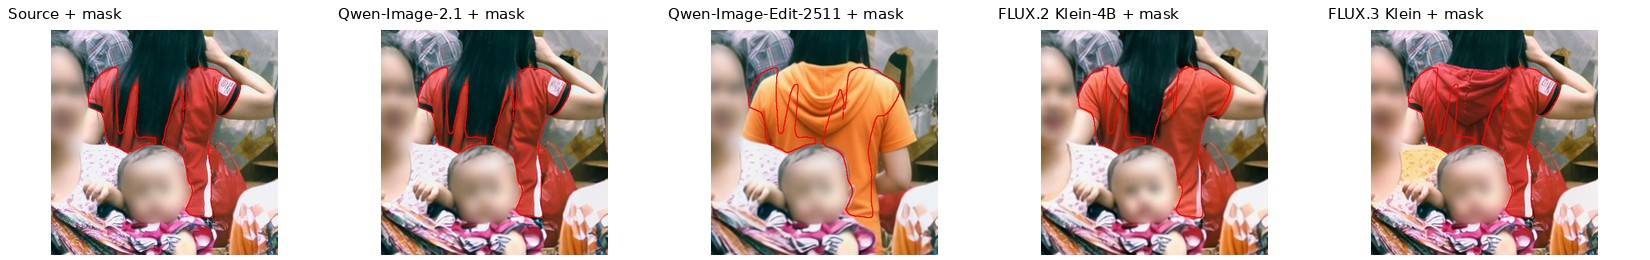
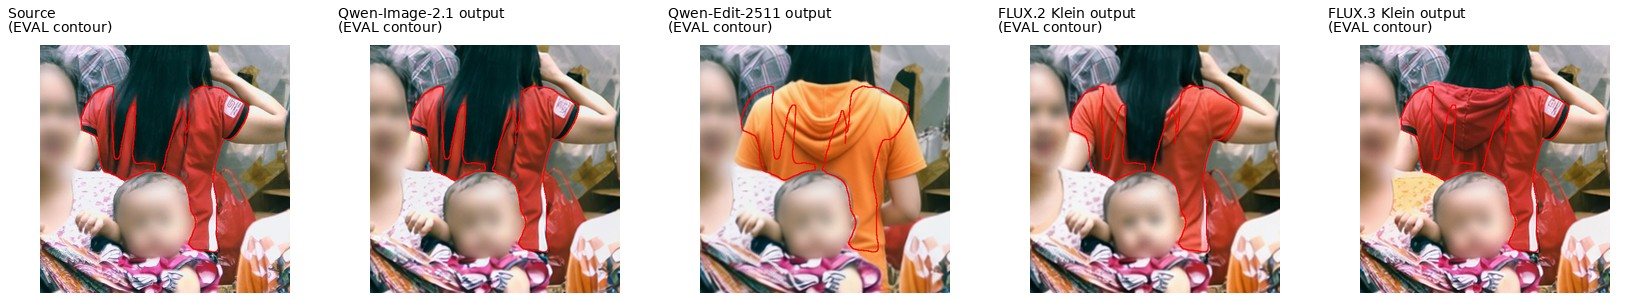
docs: clarify locator inputs and evaluation overlays

diff --git a/evaluation/analyze_results.py b/evaluation/analyze_results.py
@@ -23,6 +23,18 @@ PATHS = {
 }
 COLORS = {'qwen_image_21':'#4472c4','qwen_image_edit_2511':'#ed7d31','flux2_klein_4b':'#70ad47','flux3_klein':'#7030a0'}
 DIM_COLORS = {'E':'#4472c4','P':'#ed7d31','Q':'#70ad47','unit_joint':'#7030a0'}
+INPUT_METHODS = {
+    'qwen_image_21': 'grayscale mask label map (mask_full)',
+    'qwen_image_edit_2511': 'grayscale mask label map (mask_full)',
+    'flux2_klein_4b': 'grayscale mask label map (mask_full)',
+    'flux3_klein': 'color locator image (colored locator marks)',
+}
+SHORT_LABELS = {
+    'qwen_image_21': 'Qwen-Image-2.1',
+    'qwen_image_edit_2511': 'Qwen-Edit-2511',
+    'flux2_klein_4b': 'FLUX.2 Klein',
+    'flux3_klein': 'FLUX.3 Klein',
+}
 
 
 def read_jsonl(p):
@@ -298,14 +310,14 @@ for tag,cid in selected.items():
     shutil.copy2(j['public_job']['images'][1],ifolder/'locator.png')
     # overview
     mask_job=case_jobs['qwen_image_21'][cid]
-    imgs=[('Source',j['source_image']),('Mask locator',mask_job['public_job']['images'][1]),('Color locator',j['public_job']['images'][1])]
+    imgs=[('Source (clean)',j['source_image']),('Mask locator\n(Qwen/FLUX.2)',mask_job['public_job']['images'][1]),('Color locator\n(FLUX.3)',j['public_job']['images'][1])]
     for m,label in MODELS.items():
         mj=case_jobs[m][cid]
-        imgs.append((label,outputs[m][mj['job_id']]['output_image']))
+        imgs.append((f'{SHORT_LABELS[m]} output\n[{"mask" if m != "flux3_klein" else "color"}]',outputs[m][mj['job_id']]['output_image']))
     cells=[]
     for label,p in imgs:
-        im=thumb(Image.open(p)); cell=Image.new('RGB',(380,300),'white'); cell.paste(im,((380-im.width)//2,28)); ImageDraw.Draw(cell).text((10,6),label,fill='black',font=font(18)); cells.append(cell)
-    ov=Image.new('RGB',(380*len(cells),300),'white')
+        im=thumb(Image.open(p),size=(360,245)); cell=Image.new('RGB',(380,320),'white'); cell.paste(im,((380-im.width)//2,55)); ImageDraw.Draw(cell).multiline_text((10,6),label,fill='black',font=font(17),spacing=2); cells.append(cell)
+    ov=Image.new('RGB',(380*len(cells),320),'white')
     for i,c in enumerate(cells): ov.paste(c,(i*380,0))
     ov.save(ifolder/'overview.jpg',quality=90)
     # details
@@ -313,16 +325,16 @@ for tag,cid in selected.items():
         uid=d['id']; rowhtml=[]
         source_plain=Image.open(d['source_crop']).convert('RGB')
         source=outlined(source_plain,d['gold_source_mask'],d['crop_box_xyxy'])
-        cols=[('Source + mask',source)]
+        cols=[('Source\n(EVAL contour)',source)]
         for m,label in MODELS.items():
             # Use the crop built from the model's own input/output binding.
             mj=case_jobs[m][cid]
             md=next(x for x in mj['private_evaluation_details'] if x['id']==uid)
             outplain=Image.open(md['output_crop']).convert('RGB')
-            cols.append((label+' + mask',outlined(outplain,md['gold_source_mask'],md['crop_box_xyxy'])))
-        cw,ch=330,260; panel=Image.new('RGB',(cw*len(cols),ch),'white'); draw=ImageDraw.Draw(panel)
+            cols.append((f'{SHORT_LABELS[m]} output\n(EVAL contour)',outlined(outplain,md['gold_source_mask'],md['crop_box_xyxy'])))
+        cw,ch=330,300; panel=Image.new('RGB',(cw*len(cols),ch),'white'); draw=ImageDraw.Draw(panel)
         for i,(label,im) in enumerate(cols):
-            im.thumbnail((cw-10,ch-35),Image.Resampling.LANCZOS); panel.paste(im,(i*cw+(cw-im.width)//2,30)); draw.text((i*cw+8,5),label,fill='black',font=font(15))
+            im.thumbnail((cw-10,ch-52),Image.Resampling.LANCZOS); panel.paste(im,(i*cw+(cw-im.width)//2,45)); draw.multiline_text((i*cw+8,5),label,fill='black',font=font(14),spacing=1)
         panel.save(ifolder/f'{uid}_detail.jpg',quality=90)
 
 # Case HTML with status badges and evidence.
@@ -370,7 +382,10 @@ def prompt_zh(job):
 # Markdown report.
 md=['# SAMTok Edit Benchmark 2.6.0 结果分析','',f'生成时间：2026-10-19；四个模型均为完整 1084/1084 judge 评分。Judge 模型：`Qwen3.8-Flash-Next-FP8`。','', '## 1. 主表','', '| 模型 | JointPass | E 单元通过率 | P 单元通过率 | Q 单元通过率 | global_P | global_Q |','|---|---:|---:|---:|---:|---:|---:|']
 for r in main: md.append(f"| {r['model']} | {r['joint_pass']}/{r['cases']} ({pct(r['joint_rate'])}) | {pct(r['E_unit_rate'])} | {pct(r['P_unit_rate'])} | {pct(r['Q_unit_rate'])} | {pct(r['global_P_rate'])} | {pct(r['global_Q_rate'])} |")
-md += ['', 'JointPass 要求每个单元的 E/P/Q 都通过，同时 global_P 与 global_Q 通过。E 反映执行是否完成，P 反映非目标内容保持，Q 反映编辑质量。整体难度由 JointPass 体现；从单元级指标看，模型之间的主要差异可按 E、P、Q 三列比较。','', '## 2. 多目标组合代价','', '![JointPass 随 K 变化](figures/k_jointpass.svg)','', '实线是实测 JointPass，虚线是各单元 E/P/Q 联合通过率乘积 `∏u p_u`。对 K 个目标，令 `p_u` 为位置 Uu 的单元联合通过率；实测曲线低于虚线表示多个请求之间存在额外干扰。图和 `k_jointpass.csv` 另外给出 `global_P × global_Q × ∏u p_u`，用于解释全图保持与整体质量对最终 JointPass 的额外压缩。','', '## 3. 定位方式的影响','', '![定位方式影响](figures/locator_impact.svg)','', '单元级 `unit_joint` 定义为该单元 E、P、Q 同时通过。左图先比较 ref 和 no-ref；no-ref 指令只写 `the selected region`，模型必须从 locator 选择实例。右图再比较 point、box、mask 三种 locator。完整 E/P/Q 与样本数见 `locator_impact.csv`。','', '| 模型 | ref unit-joint | no-ref unit-joint | no-ref - ref |','|---|---:|---:|---:|']
+md += ['', 'JointPass 要求每个单元的 E/P/Q 都通过，同时 global_P 与 global_Q 通过。E 反映执行是否完成，P 反映非目标内容保持，Q 反映编辑质量。整体难度由 JointPass 体现；从单元级指标看，模型之间的主要差异可按 E、P、Q 三列比较。', '', '## 1.1 模型输入设置', '', '| 模型 | 区域信息输入 | 评测输入包 |', '|---|---|---|']
+for m,label in MODELS.items():
+    md.append(f"| {label} | {INPUT_METHODS[m]} | `{PATHS[m][0]}` |")
+md += ['', '总览图中带有 `[mask]` 或 `[color]` 的模型输出面板表示该模型实际收到的区域信息形式。细节图里的红色轮廓统一是评测可视化用的源 mask 轮廓，用来对齐局部区域；它不是模型输出，也不参与输出图像评分。', '', '## 2. 多目标组合代价','', '![JointPass 随 K 变化](figures/k_jointpass.svg)','', '实线是实测 JointPass，虚线是各单元 E/P/Q 联合通过率乘积 `∏u p_u`。对 K 个目标，令 `p_u` 为位置 Uu 的单元联合通过率；实测曲线低于虚线表示多个请求之间存在额外干扰。图和 `k_jointpass.csv` 另外给出 `global_P × global_Q × ∏u p_u`，用于解释全图保持与整体质量对最终 JointPass 的额外压缩。','', '## 3. 定位方式的影响','', '![定位方式影响](figures/locator_impact.svg)','', '单元级 `unit_joint` 定义为该单元 E、P、Q 同时通过。左图先比较 ref 和 no-ref；no-ref 指令只写 `the selected region`，模型必须从 locator 选择实例。右图再比较 point、box、mask 三种 locator。右图的 point/box/mask 是跨 ref 与 no-ref 的总体分组；完整 E/P/Q 与样本数见 `locator_impact.csv`。','', '| 模型 | ref unit-joint | no-ref unit-joint | no-ref - ref |','|---|---:|---:|---:|']
 for m,label in MODELS.items():
     ref=next(r for r in locrows if r['model_key']==m and r['group']=='ref')['unit_joint_rate']
     noref=next(r for r in locrows if r['model_key']==m and r['group']=='no-ref')['unit_joint_rate']
